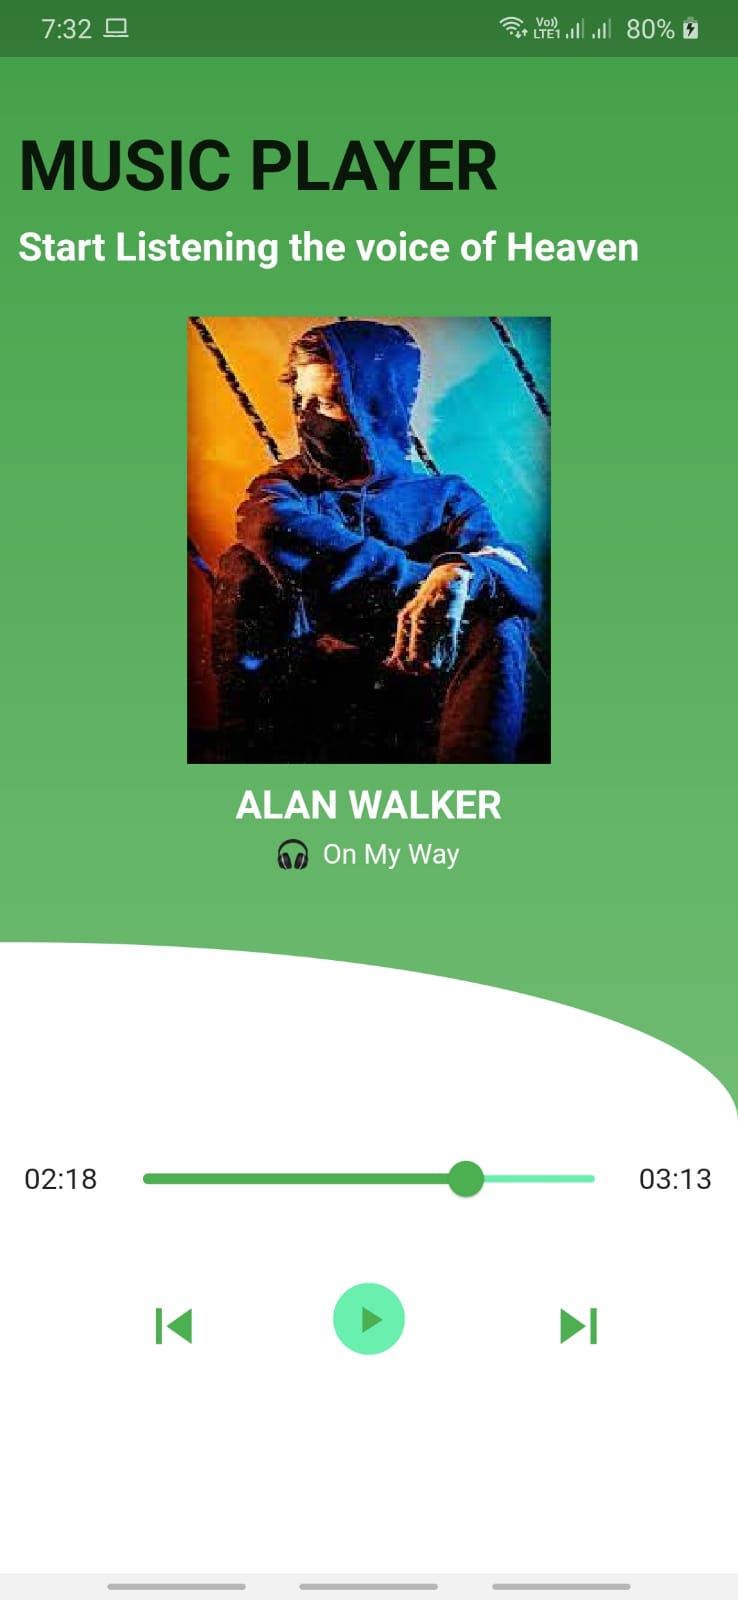
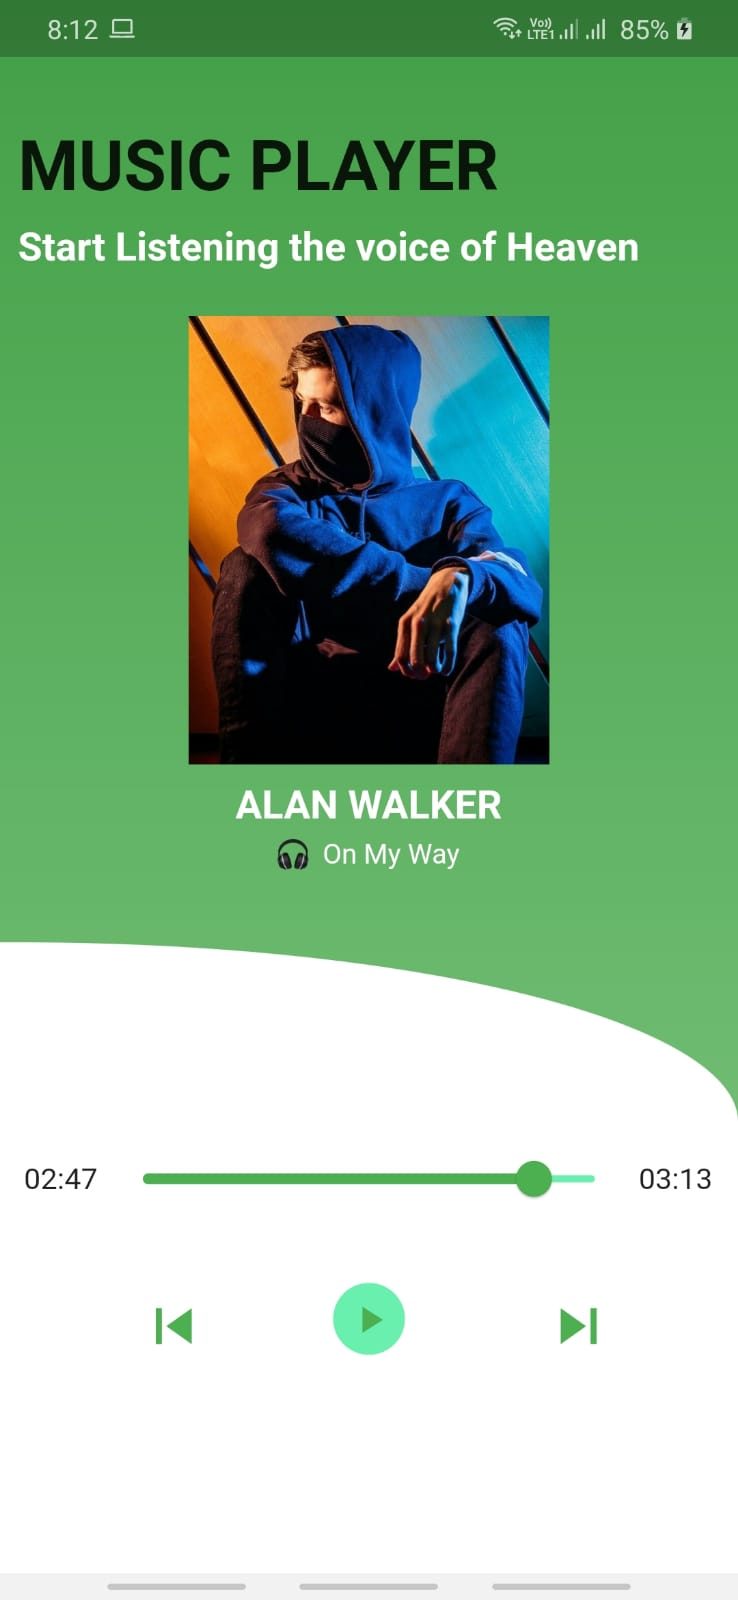
modified image

diff --git a/lib/main.dart b/lib/main.dart
@@ -103,9 +103,13 @@ class _HomePageState extends State<HomePage> {
                 SizedBox(height: 25),
                 Center(
                   child: Container(
-                    child: Image.asset(
-                      'assets/image1.jpg',
-                      height: 250,
+                    height: 250,
+                    decoration: BoxDecoration(
+                      image: DecorationImage(
+                        image: AssetImage(
+                          'assets/image1.jpg',
+                        ),
+                      ),
                     ),
                   ),
                 ),

diff --git a/README.md b/README.md
@@ -1,4 +1,4 @@
-# MusicPlayer
+# Music Player
 
 This Project is on MusicPlayer with functionalities such as playing song ,pausing song,forwarding song,backwarding song made by using Flutter and Dart .
 
@@ -8,15 +8,15 @@ This Project is on MusicPlayer with functionalities such as playing song ,pausin
 
 ## ScreenShots
 
-## HomePage
+## Home Page
 
 ![HOME](assets/screenshots/start.jpg)
 
-## Play
+## Play Action
 
 ![PLAY](assets/screenshots/play.jpg)
 
-## Pause
+## Pause Action
 
 ![PAUSE](assets/screenshots/pause.jpg)
 
